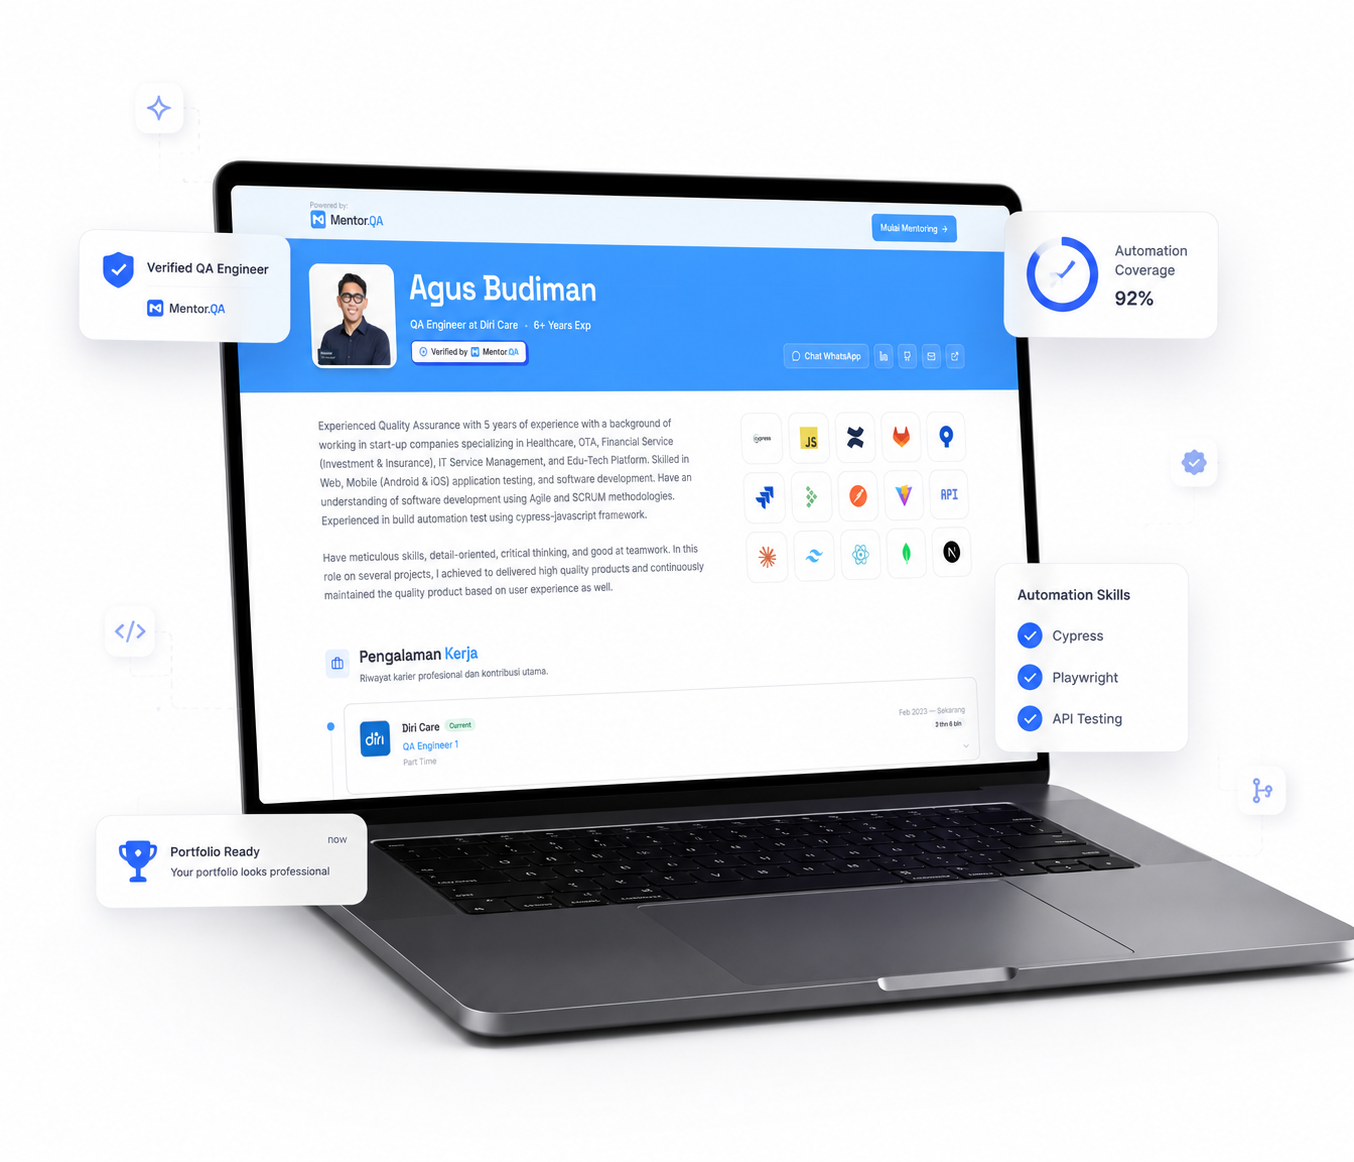
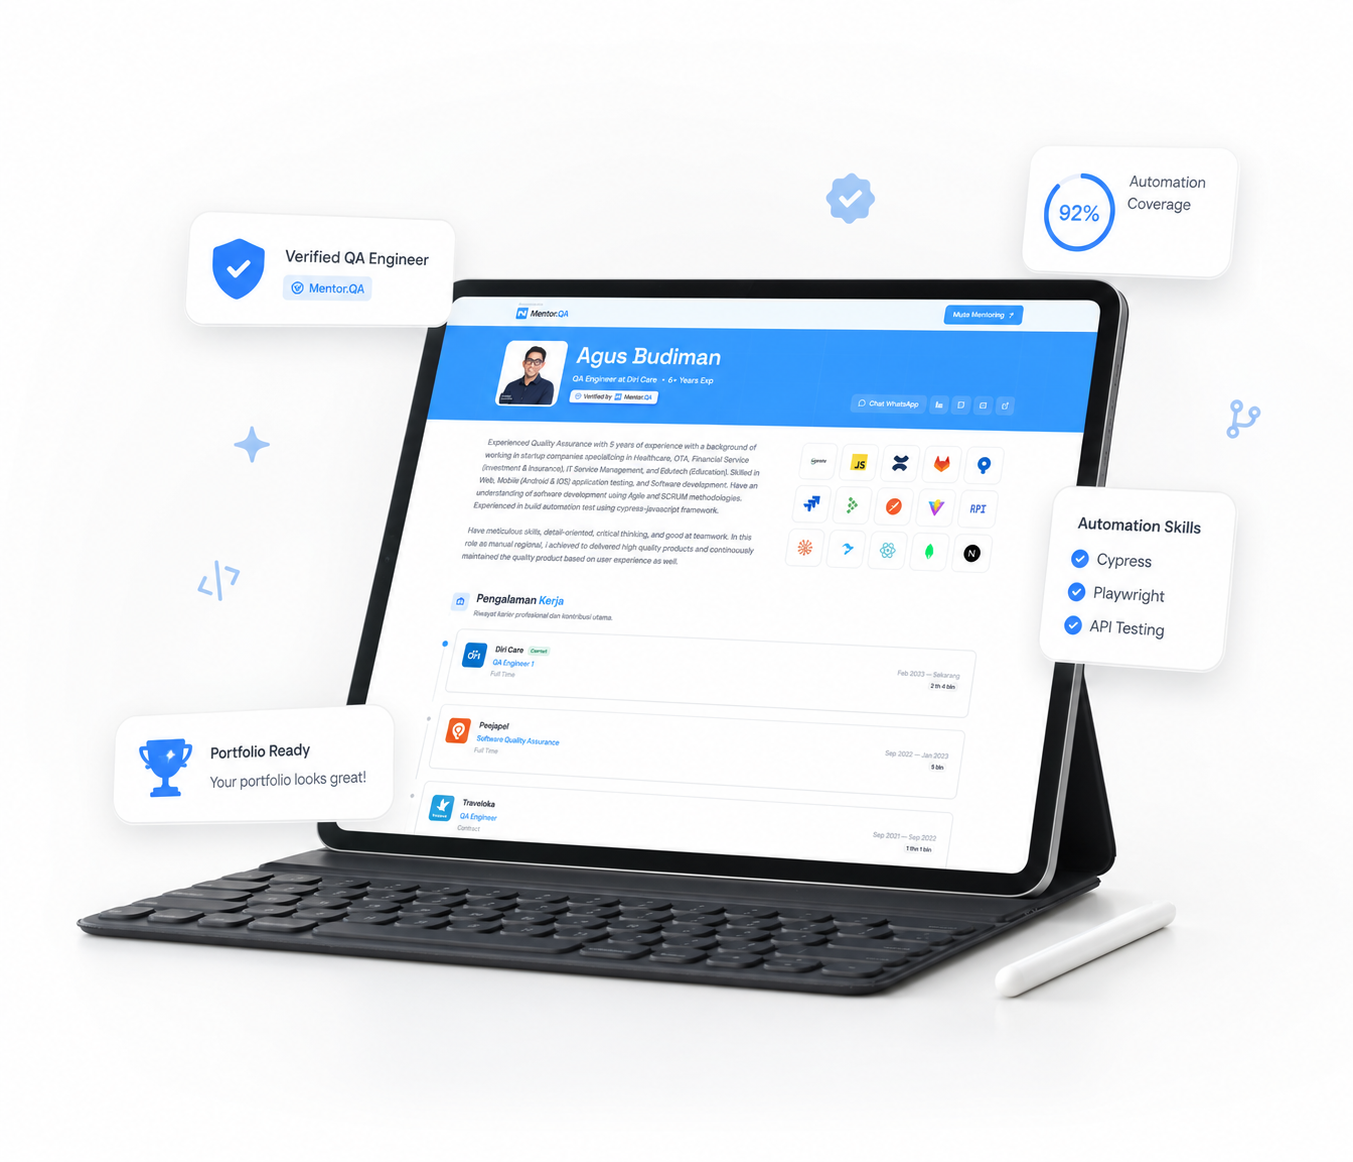
polish(saas-portfolio): landing hero visual refresh and copy trims
Floating tool-logo accents and a "Portfolio Ready" card on the hero mock,
tighter feature/for-who copy, and new figma/jira/postman logo assets.

Changed region(s): [[0.0621, 0.1239, 1.0, 0.9294], [0.9002, 0.3408, 0.9313, 0.3718], [0.8692, 0.3718, 0.9002, 0.4028]]

diff --git a/src/features/saas-portfolio/components/landing/HeroSection.tsx b/src/features/saas-portfolio/components/landing/HeroSection.tsx
@@ -15,7 +15,7 @@ const HeroSection: React.FC = () => {
             </div>
 
             <h1 className="font-ld-display font-semibold text-[42px] sm:text-[56px] lg:text-[64px] leading-[0.98] tracking-[-0.025em] text-ld-graphite mb-5">
-              Portfolio QA Engineer yang Bikin Kamu Dilirik Recruiter
+              Buat Portfolio QA Engineer, Auto Dilirik Recruiter &amp; HR
             </h1>
 
             <p className="text-base sm:text-lg text-ld-slate leading-relaxed max-w-lg mb-8 tracking-[-0.01em]">
@@ -33,7 +33,7 @@ const HeroSection: React.FC = () => {
               </Link>
               <a
                 href="#how-it-works"
-                className="inline-flex items-center justify-center gap-2 px-6 py-3 border border-ld-ash text-ld-graphite text-sm font-medium rounded-lg no-underline hover:border-ld-steel transition-colors"
+                className="inline-flex items-center justify-center gap-2 px-6 py-3 border border-ld-frost/70 text-ld-graphite text-sm font-medium rounded-lg no-underline hover:border-ld-steel transition-colors"
               >
                 Cara Kerja
               </a>
@@ -53,8 +53,28 @@ const HeroSection: React.FC = () => {
 
           {/* Right two-fifths: mock portfolio preview card (browser-frame) */}
           <div className="lg:col-span-2 relative flex justify-center lg:justify-end">
-            <div className="relative w-full max-w-sm rounded-xl bg-white border border-ld-ash overflow-hidden shadow-[var(--shadow-ld-lg)]">
-              <div className="border-b border-ld-ash px-5 py-3 flex items-center gap-2 bg-ld-cloud">
+            {/* Floating tool logos */}
+            <div className="hidden sm:flex absolute top-1/3 -right-6 w-12 h-12 items-center justify-center rounded-xl bg-white shadow-[0_8px_24px_rgba(59,158,255,0.2)] p-2.5 z-10">
+              <img src="/personal-portfolio/img/tools/postman-logo-new.svg" alt="Postman" className="w-full h-full object-contain" />
+            </div>
+            <div className="hidden sm:flex absolute top-1/2 -left-8 w-16 h-16 items-center justify-center rounded-xl bg-white shadow-[0_8px_24px_rgba(59,158,255,0.2)] p-3 z-10">
+              <img src="/personal-portfolio/img/tools/jira-logo-new.svg" alt="Jira" className="w-full h-full object-contain" />
+            </div>
+            <div className="hidden sm:flex absolute -top-8 right-6 w-11 h-11 items-center justify-center rounded-xl bg-white shadow-[0_8px_24px_rgba(59,158,255,0.2)] p-2 z-10">
+              <img src="/personal-portfolio/img/tools/figma-logo-new.svg" alt="Figma" className="w-full h-full object-contain" />
+            </div>
+
+            {/* Floating "Portfolio Ready" card */}
+            <div className="hidden sm:flex absolute -bottom-8 -right-8 items-center gap-3 px-5 py-3.5 rounded-xl bg-white shadow-[0_8px_24px_rgba(59,158,255,0.2)] z-20">
+              <span className="text-3xl leading-none">🎉</span>
+              <div className="min-w-0">
+                <p className="m-0 text-sm font-semibold text-ld-graphite leading-tight">Portfolio Ready</p>
+                <p className="m-0 text-xs text-ld-slate leading-tight">Siap dalam 5 menit</p>
+              </div>
+            </div>
+
+            <div className="relative w-full max-w-sm rounded-xl bg-white border border-ld-frost/70 overflow-hidden shadow-[0_20px_50px_rgba(59,158,255,0.2)]">
+              <div className="border-b border-ld-frost/70 px-5 py-3 flex items-center gap-2 bg-ld-cloud">
                 <div className="w-2.5 h-2.5 rounded-full bg-[#ff5f57]" />
                 <div className="w-2.5 h-2.5 rounded-full bg-[#febc2e]" />
                 <div className="w-2.5 h-2.5 rounded-full bg-[#28c840]" />
@@ -68,7 +88,7 @@ const HeroSection: React.FC = () => {
                     alt="Agus Budiman"
                     width={48}
                     height={48}
-                    className="w-12 h-12 rounded-full object-cover shrink-0"
+                    className="w-12 h-12 rounded-xl object-cover shrink-0"
                   />
                   <div className="min-w-0">
                     <p className="m-0 text-sm font-semibold text-ld-graphite truncate">Agus Budiman</p>
@@ -85,17 +105,17 @@ const HeroSection: React.FC = () => {
                 </div>
 
                 <div className="space-y-2.5">
-                  <div className="flex items-center gap-2.5 p-2.5 rounded-lg border border-ld-ash">
+                  <div className="flex items-center gap-2.5 p-2.5 rounded-lg border border-ld-frost/70">
                     <FolderKanban size={15} className="text-ld-violet shrink-0" />
                     <span className="text-xs text-ld-graphite font-medium">3 Proyek Ditampilkan</span>
                   </div>
-                  <div className="flex items-center gap-2.5 p-2.5 rounded-lg border border-ld-ash">
+                  <div className="flex items-center gap-2.5 p-2.5 rounded-lg border border-ld-frost/70">
                     <Award size={15} className="text-ld-violet shrink-0" />
                     <span className="text-xs text-ld-graphite font-medium">2 Sertifikasi</span>
                   </div>
-                  <div className="flex items-center gap-2.5 p-2.5 rounded-lg border border-ld-ash">
+                  <div className="flex items-center gap-2.5 p-2.5 rounded-lg border border-ld-frost/70">
                     <Briefcase size={15} className="text-ld-violet shrink-0" />
-                    <span className="text-xs text-ld-graphite font-medium">Riwayat Pengalaman Kerja</span>
+                    <span className="text-xs text-ld-graphite font-medium">5 Riwayat Pengalaman Kerja</span>
                   </div>
                 </div>
               </div>

diff --git a/src/features/saas-portfolio/components/landing/FeaturesSection.tsx b/src/features/saas-portfolio/components/landing/FeaturesSection.tsx
@@ -5,42 +5,42 @@ const features = [
   {
     icon: FolderKanban,
     title: 'Showcase Proyek',
-    description: 'Tampilkan test case, automation script, atau proyek QA lain lengkap dengan deskripsi dan tools yang dipakai.',
+    description: 'Test case, automation script, dan proyek QA lengkap dengan tools yang dipakai.',
   },
   {
     icon: Award,
     title: 'Sertifikasi & Skill',
-    description: 'Pajang sertifikasi ISTQB, kursus, atau training yang sudah kamu selesaikan.',
+    description: 'Pajang sertifikasi ISTQB, kursus, dan training yang sudah kamu selesaikan.',
   },
   {
     icon: Briefcase,
     title: 'Pengalaman Kerja',
-    description: 'Timeline pengalaman kerja dan pendidikan, rapi dan mudah dibaca recruiter.',
+    description: 'Timeline kerja dan pendidikan, rapi dan mudah dibaca recruiter.',
   },
   {
     icon: Wrench,
     title: 'Tools & Teknologi',
-    description: 'Highlight tools yang kamu kuasai — Cypress, Postman, Selenium, JMeter, dan lainnya.',
+    description: 'Highlight tools yang kamu kuasai Cypress, Postman, Selenium, JMeter, dll.',
   },
   {
     icon: MessageSquareQuote,
     title: 'Endorsement',
-    description: 'Kumpulkan rekomendasi dari rekan kerja, mentor, atau atasan langsung di portfolio-mu.',
+    description: 'Rekomendasi dari rekan kerja, mentor, atau atasan langsung.',
   },
   {
     icon: Link2,
     title: 'Custom URL',
-    description: 'Link portfolio sendiri yang gampang dibagikan ke recruiter atau di CV kamu.',
+    description: 'Link portfolio sendiri, gampang dibagikan ke recruiter atau di CV.',
   },
   {
     icon: Search,
     title: 'SEO-Friendly',
-    description: 'Halaman portfolio dioptimasi supaya bisa muncul di hasil pencarian Google.',
+    description: 'Dioptimasi supaya portfolio-mu muncul di hasil pencarian Google.',
   },
   {
     icon: GraduationCap,
     title: 'Untuk Semua Level QA',
-    description: 'Fresh graduate yang baru masuk dunia kerja sampai QA berpengalaman, portfolio ini cocok buat semua.',
+    description: 'Cocok buat fresh graduate sampai QA berpengalaman.',
   },
 ];
 
@@ -53,7 +53,7 @@ const FeaturesSection: React.FC = () => {
             Semua yang Kamu Butuhkan dalam Satu Portfolio
           </h2>
           <p className="text-ld-slate max-w-xl mx-auto text-base leading-relaxed">
-            Bukan cuma CV digital — portfolio yang benar-benar menunjukkan cara kerja dan kemampuan QA-mu.
+            Bukan cuma CV digital - portfolio yang benar-benar menunjukkan cara kerja dan kemampuan QA-mu.
           </p>
         </div>
 

diff --git a/src/features/saas-portfolio/components/landing/ForWhoSection.tsx b/src/features/saas-portfolio/components/landing/ForWhoSection.tsx
@@ -38,11 +38,11 @@ const ForWhoSection: React.FC = () => {
 
           <div className="space-y-4">
             {groups.map(({ label, title, points }) => (
-              <div key={label} className="rounded-xl bg-ld-canvas p-6 shadow-[0_20px_50px_rgba(30,27,75,0.25)]">
-                <span className="inline-flex items-center px-2.5 py-1 rounded-full bg-ld-lilac text-ld-violet text-xs font-medium mb-4">
+              <div key={label} className="relative overflow-hidden rounded-xl bg-ld-canvas p-6 shadow-[0_20px_50px_rgba(30,27,75,0.25)]">
+                <span className="absolute top-0 right-0 px-2.5 py-1 rounded-bl-lg bg-ld-violet text-white text-[10px] font-medium uppercase tracking-wide">
                   {label}
                 </span>
-                <h3 className="font-ld-display font-semibold text-xl text-ld-graphite tracking-[-0.01em] mb-4">
+                <h3 className="font-ld-display font-semibold text-xl text-ld-graphite tracking-[-0.01em] mb-4 pr-16">
                   {title}
                 </h3>
                 <ul className="space-y-3 list-none p-0 m-0">
